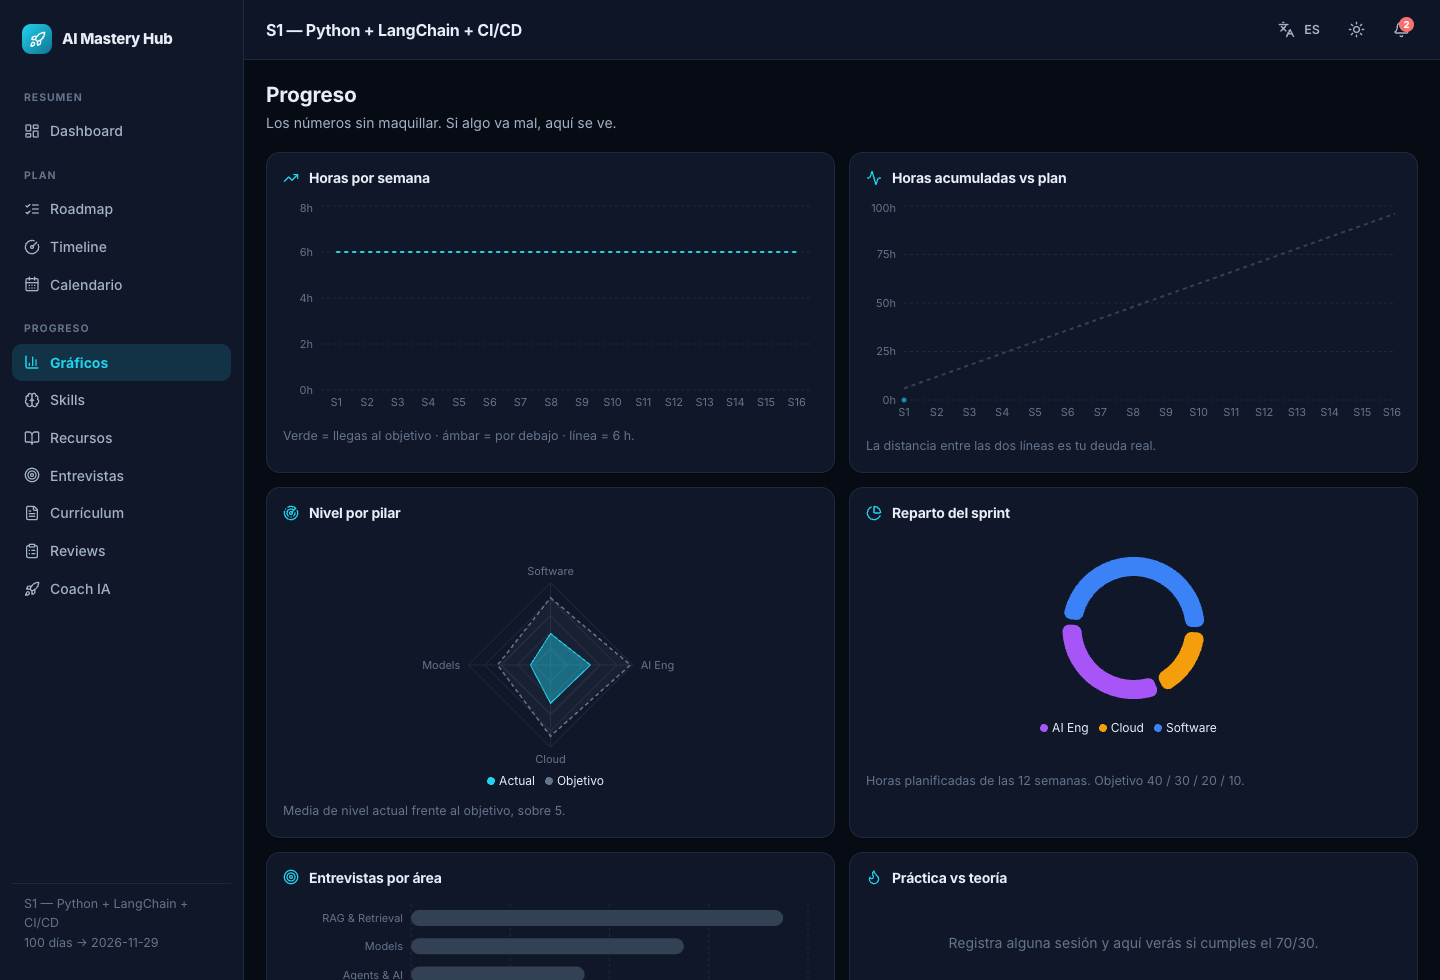
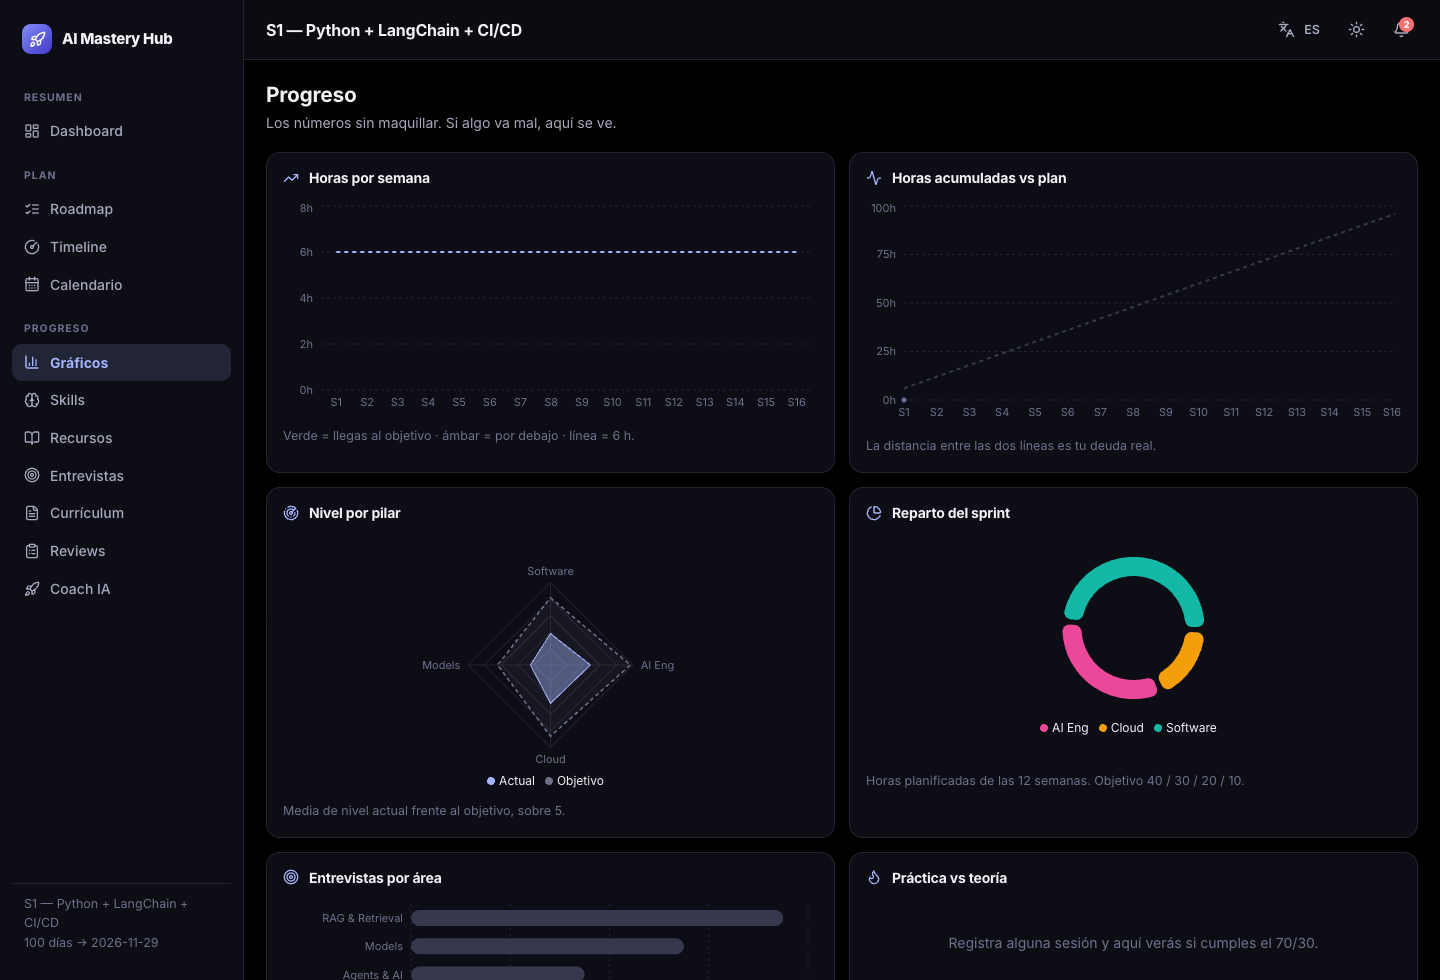
Paleta indigo: blanco puro en claro, negro puro en oscuro
El cyan/teal era el color del trabajo y la app parecia lo mismo. El indigo es
el color academico habitual, es el que mas se aleja de ese cyan y deja el verde
libre para el semaforo.

- tokens.css: --bg #ffffff en claro y #000000 en oscuro; las superficies se
  separan con borde y elevacion, no volviendo gris el fondo
- charts.tsx: useChartTheme lee los tokens del documento en vez de duplicar los
  hex, asi Recharts sigue la paleta en lugar de quedarse anclado al cyan
- ui.tsx: la escala de los pilares sale de la familia del acento (rosa y teal
  en vez de violeta y azul) para que el donut se siga leyendo
- index.html: theme-color a negro
- Capturas del README regeneradas

diff --git a/frontend/src/styles/tokens.css b/frontend/src/styles/tokens.css
@@ -1,28 +1,29 @@
 /* Design tokens. Light is the base; dark overrides only the values. */
+/* Indigo: papel blanco de verdad y negro de verdad. El verde queda libre para el semaforo. */
 
 :root {
-  --brand-50: #ecfeff;
-  --brand-100: #cffafe;
-  --brand-300: #67e8f9;
-  --brand-400: #22d3ee;
-  --brand-500: #06b6d4;
-  --brand-600: #0891b2;
-  --brand-700: #0e7490;
+  --brand-50: #eef2ff;
+  --brand-100: #e0e7ff;
+  --brand-300: #a5b4fc;
+  --brand-400: #818cf8;
+  --brand-500: #6366f1;
+  --brand-600: #4f46e5;
+  --brand-700: #4338ca;
 
-  --bg: #f6f8fb;
-  --bg-soft: #eef2f7;
+  --bg: #ffffff;
+  --bg-soft: #f6f6fb;
   --surface: #ffffff;
-  --surface-2: #f9fafb;
-  --surface-hover: #f1f5f9;
-  --border: #e2e8f0;
-  --border-strong: #cbd5e1;
+  --surface-2: #fafaff;
+  --surface-hover: #f2f2fa;
+  --border: #e6e6f0;
+  --border-strong: #c7c8d9;
 
-  --text: #0f172a;
-  --text-soft: #475569;
-  --text-dim: #94a3b8;
+  --text: #0b0b12;
+  --text-soft: #4a4a5c;
+  --text-dim: #8b8ba1;
 
   --accent: var(--brand-600);
-  --accent-soft: rgba(6, 182, 212, 0.12);
+  --accent-soft: rgba(79, 70, 229, 0.11);
   --on-accent: #ffffff;
 
   --success: #16a34a;
@@ -37,9 +38,9 @@
   --radius-sm: 8px;
   --radius: 14px;
   --radius-lg: 20px;
-  --shadow-sm: 0 1px 2px rgba(15, 23, 42, 0.06);
-  --shadow: 0 4px 16px rgba(15, 23, 42, 0.08);
-  --shadow-lg: 0 16px 48px rgba(15, 23, 42, 0.14);
+  --shadow-sm: 0 1px 2px rgba(11, 11, 18, 0.06);
+  --shadow: 0 4px 16px rgba(11, 11, 18, 0.07);
+  --shadow-lg: 0 16px 48px rgba(11, 11, 18, 0.13);
 
   --sidebar-w: 244px;
   --topbar-h: 60px;
@@ -49,21 +50,21 @@
 }
 
 :root[data-theme='dark'] {
-  --bg: #070b14;
-  --bg-soft: #0b1220;
-  --surface: #0f1729;
-  --surface-2: #131c30;
-  --surface-hover: #1a2540;
-  --border: #1e293b;
-  --border-strong: #334155;
+  --bg: #000000;
+  --bg-soft: #08080d;
+  --surface: #0d0d15;
+  --surface-2: #13131e;
+  --surface-hover: #1b1b2a;
+  --border: #23232f;
+  --border-strong: #37374d;
 
-  --text: #e8eef7;
-  --text-soft: #a3b2c7;
-  --text-dim: #64748b;
+  --text: #f2f2f7;
+  --text-soft: #a8a8bd;
+  --text-dim: #70708a;
 
-  --accent: var(--brand-400);
-  --accent-soft: rgba(34, 211, 238, 0.14);
-  --on-accent: #04222a;
+  --accent: var(--brand-300);
+  --accent-soft: rgba(165, 180, 252, 0.14);
+  --on-accent: #14142b;
 
   --success: #4ade80;
   --success-soft: rgba(74, 222, 128, 0.14);
@@ -74,7 +75,7 @@
   --info: #60a5fa;
   --info-soft: rgba(96, 165, 250, 0.14);
 
-  --shadow-sm: 0 1px 2px rgba(0, 0, 0, 0.4);
-  --shadow: 0 4px 20px rgba(0, 0, 0, 0.45);
-  --shadow-lg: 0 20px 60px rgba(0, 0, 0, 0.6);
+  --shadow-sm: 0 1px 2px rgba(0, 0, 0, 0.6);
+  --shadow: 0 4px 20px rgba(0, 0, 0, 0.65);
+  --shadow-lg: 0 20px 60px rgba(0, 0, 0, 0.8);
 }

diff --git a/frontend/src/components/charts.tsx b/frontend/src/components/charts.tsx
@@ -1,5 +1,6 @@
 /** Recharts wrappers that follow the app's theme tokens. */
 
+import { useMemo } from 'react'
 import {
   Area, AreaChart, Bar, BarChart, CartesianGrid, Cell, Legend, Line, ComposedChart,
   PolarAngleAxis, PolarGrid, PolarRadiusAxis, Pie, PieChart, Radar, RadarChart,
@@ -8,23 +9,36 @@ import {
 
 import { usePrefs } from '../store/useStore'
 
-/** Recharts needs real colour values, not CSS variables. */
-export function useChartTheme() {
+/**
+ * Recharts needs resolved colour values, not `var(--accent)`, so lee los tokens
+ * del documento en vez de duplicarlos aqui. Asi la paleta vive en un solo sitio.
+ */
+const TOKENS = {
+  accent: '--accent',
+  grid: '--border',
+  axis: '--text-dim',
+  text: '--text',
+  surface: '--surface',
+  border: '--border',
+  success: '--success',
+  warning: '--warning',
+  danger: '--danger',
+  muted: '--border-strong',
+} as const
+
+type ChartTheme = { dark: boolean } & Record<keyof typeof TOKENS, string>
+
+export function useChartTheme(): ChartTheme {
   const theme = usePrefs((s) => s.theme)
-  const dark = theme === 'dark'
-  return {
-    dark,
-    accent: dark ? '#22d3ee' : '#0891b2',
-    grid: dark ? '#1e293b' : '#e2e8f0',
-    axis: dark ? '#64748b' : '#94a3b8',
-    text: dark ? '#e8eef7' : '#0f172a',
-    surface: dark ? '#0f1729' : '#ffffff',
-    border: dark ? '#1e293b' : '#e2e8f0',
-    success: dark ? '#4ade80' : '#16a34a',
-    warning: dark ? '#fbbf24' : '#d97706',
-    danger: dark ? '#f87171' : '#dc2626',
-    muted: dark ? '#334155' : '#cbd5e1',
-  }
+  return useMemo(() => {
+    const css = getComputedStyle(document.documentElement)
+    const read = (name: string) => css.getPropertyValue(name).trim()
+    const out = { dark: theme === 'dark' } as ChartTheme
+    for (const [key, token] of Object.entries(TOKENS)) {
+      out[key as keyof typeof TOKENS] = read(token)
+    }
+    return out
+  }, [theme])
 }
 
 function useTooltipStyle() {

diff --git a/frontend/src/components/ui.tsx b/frontend/src/components/ui.tsx
@@ -91,9 +91,13 @@ export const STATUS_TONE: Record<string, 'success' | 'warning' | 'info' | 'accen
   Dropped: '',
 }
 
+/**
+ * Escala categorica de los pilares. Deliberadamente fuera de la familia del acento
+ * (indigo): si un pilar se parece al color de marca, el donut deja de leerse.
+ */
 export const CATEGORY_COLOR: Record<string, string> = {
-  'AI Engineering': '#a855f7',
-  'Software Engineering': '#3b82f6',
+  'AI Engineering': '#ec4899',
+  'Software Engineering': '#14b8a6',
   'Cloud / Infra': '#f59e0b',
   'Models / ML': '#22c55e',
   'Meta / Review': '#94a3b8',

diff --git a/frontend/index.html b/frontend/index.html
@@ -3,7 +3,7 @@
   <head>
     <meta charset="UTF-8" />
     <meta name="viewport" content="width=device-width, initial-scale=1.0, viewport-fit=cover" />
-    <meta name="theme-color" content="#0b1220" />
+    <meta name="theme-color" content="#000000" />
     <link rel="preconnect" href="https://fonts.googleapis.com" />
     <link rel="preconnect" href="https://fonts.gstatic.com" crossorigin />
     <link href="https://fonts.googleapis.com/css2?family=Inter:wght@400;500;600;700;800&display=swap" rel="stylesheet" />
